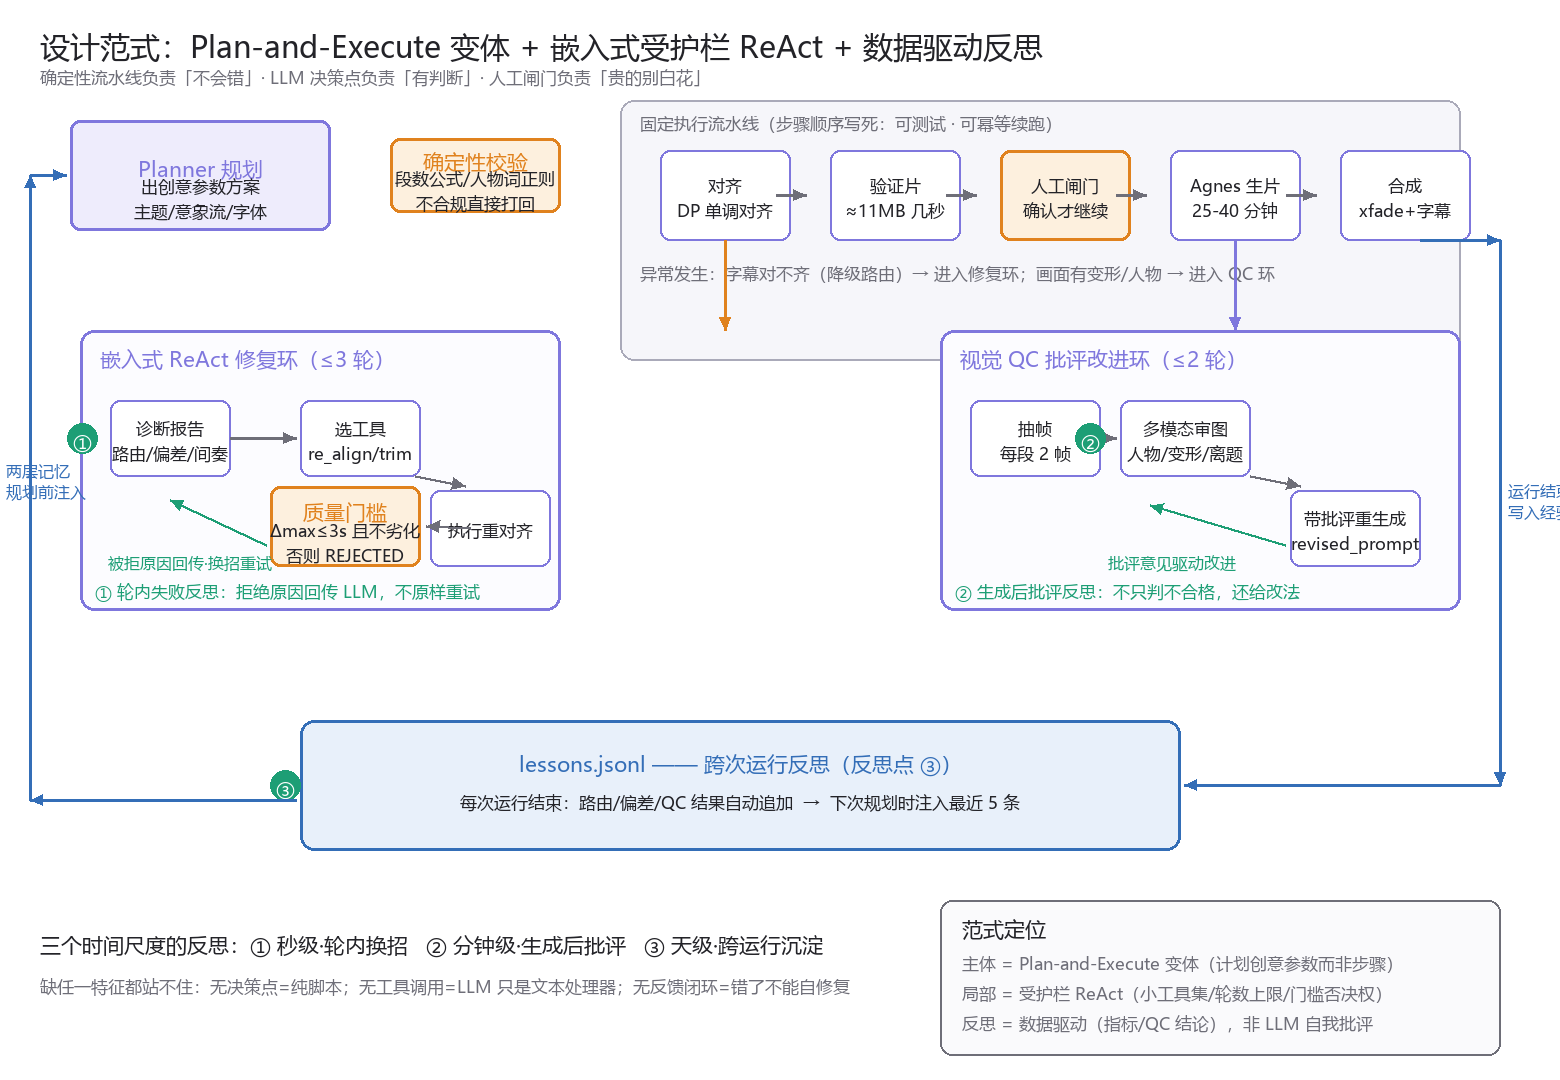
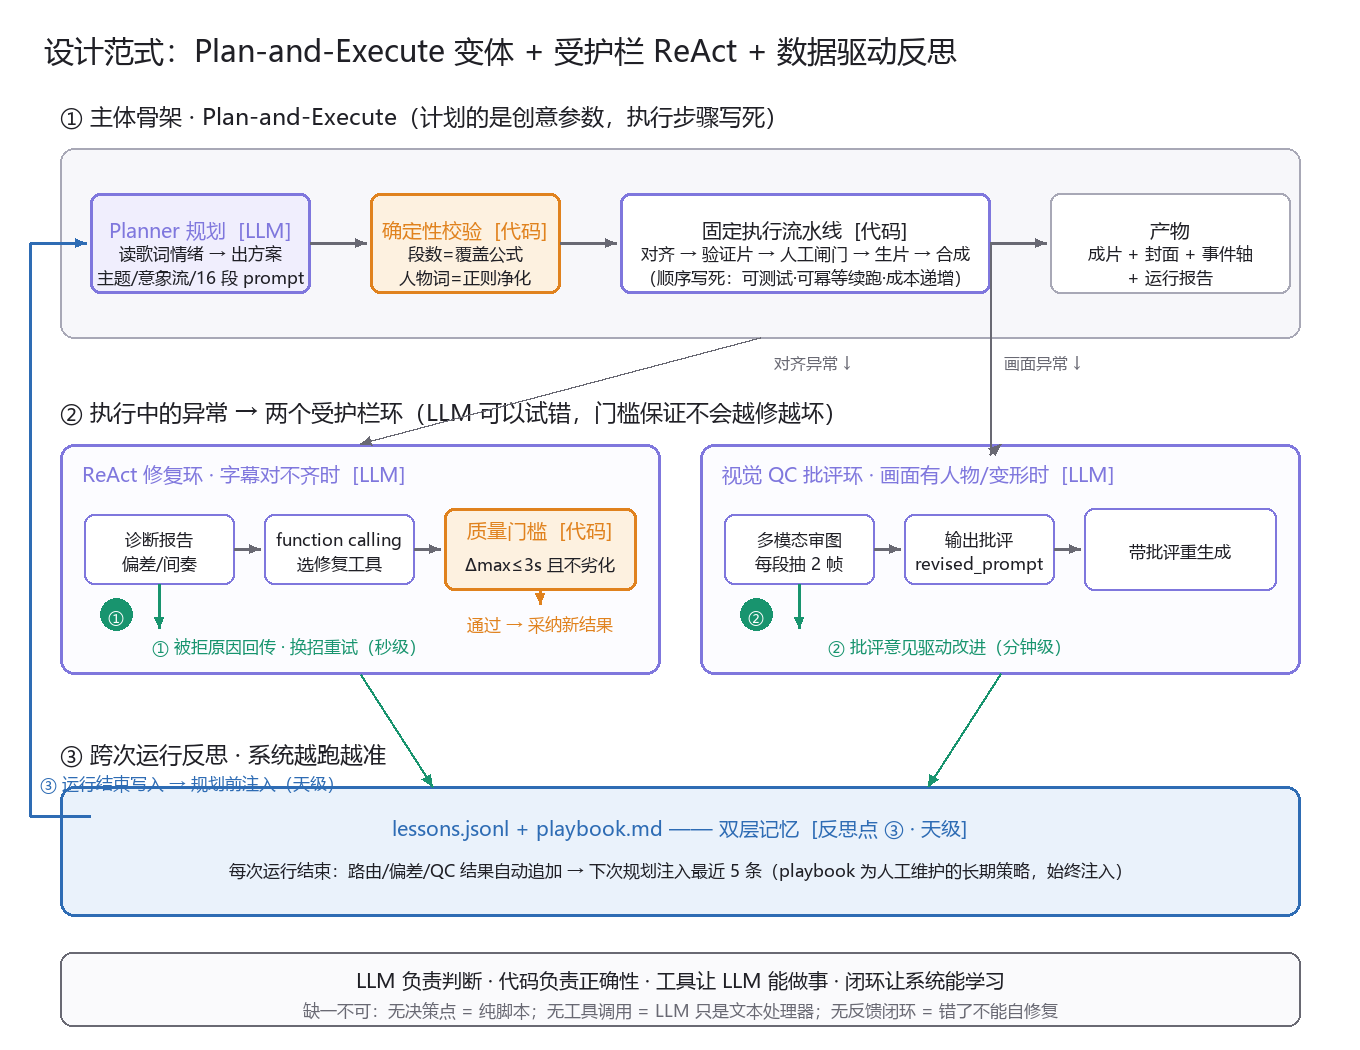
docs: 重绘设计范式图（三段式布局：骨架/护栏环/反思闭环）

Changed region(s): [[0.0, 0.0305, 1.0, 0.9752], [0.1235, 0.6095, 0.7721, 0.6705], [0.9265, 0.8229, 0.9574, 0.8838]]

diff --git a/tools/render_paradigm.py b/tools/render_paradigm.py
@@ -1,11 +1,15 @@
 #!/usr/bin/env python3
-"""渲染"设计范式图"：Plan-and-Execute 主体 + 嵌入式受护栏 ReAct + 三个反思点。
+"""渲染"设计范式图"（概念层，三段式布局）。
 
 用法: python tools/render_paradigm.py
-生成: docs/paradigm.png (白底，面试讲解用概念层图)
+生成: docs/paradigm.png
+
+设计原则：范式图只讲范式，不画流水线细节（细节由 architecture_main.png 承担）。
+三段自上而下：① 主体骨架 Plan-and-Execute → ② 执行中两个受护栏环 → ③ 跨次反思闭环。
 """
 from __future__ import annotations
 
+import math
 import os
 
 from PIL import Image, ImageDraw, ImageFont
@@ -13,172 +17,174 @@ from PIL import Image, ImageDraw, ImageFont
 FONT_PATH = "C:/Windows/Fonts/msyh.ttc"
 OUT = os.path.join(os.path.dirname(__file__), "..", "docs", "paradigm.png")
 
-W, H = 1560, 1080
+W, H = 1360, 1050
 BG = (255, 255, 255)
-INK = (35, 35, 40)
-GRAY = (110, 110, 120)
-PURPLE = (127, 119, 221)      # LLM 决策点
-PURPLE_BG = (238, 236, 252)
-BLUE = (52, 110, 183)         # 记忆/反思
-BLUE_BG = (232, 240, 250)
-ORANGE = (224, 130, 30)       # 人工/质量门槛
-ORANGE_BG = (253, 240, 222)
-GREEN = (29, 158, 117)        # 反思点标注
-GREEN_BG = (228, 245, 238)
-PIPE_BG = (246, 246, 250)
-PIPE_EDGE = (170, 170, 185)
+INK = (32, 32, 38)
+GRAY = (105, 105, 115)
+PURPLE = (127, 119, 221)
+PURPLE_BG = (240, 238, 253)
+ORANGE = (224, 130, 30)
+ORANGE_BG = (253, 241, 224)
+BLUE = (46, 108, 180)
+BLUE_BG = (234, 242, 251)
+GREEN = (24, 148, 110)
+CODE_BG = (247, 247, 250)
+CODE_EDGE = (168, 168, 182)
 
 
 def F(size):
     return ImageFont.truetype(FONT_PATH, size, index=0)
 
 
-f_title, f_node, f_sm, f_tag, f_num = F(30), F(21), F(17), F(16), F(19)
+f_title, f_h2, f_node, f_sm, f_tag = F(30), F(23), F(20), F(17), F(16)
 
 
 def box(d, xy, fill, edge, r=10, w=2):
     d.rounded_rectangle(xy, radius=r, fill=fill, outline=edge, width=w)
 
 
-def center_text(d, cx, cy, text, font, fill=INK, lh=None):
+def ctext(d, cx, cy, text, font, fill=INK):
     lines = text.split("\n")
-    lh = lh or (font.size + 8)
-    total = len(lines) * lh - 8
-    y = cy - total / 2
+    lh = font.size + 7
+    y = cy - (len(lines) * lh - 7) / 2
     for ln in lines:
         w = d.textlength(ln, font=font)
         d.text((cx - w / 2, y), ln, font=font, fill=fill)
         y += lh
 
 
-def arrow(d, p1, p2, color=GRAY, w=3, label=None, lcolor=None):
-    d.line([p1, p2], fill=color, width=w)
-    _head(d, p1, p2, color, w)
-    if label:
-        mx, my = (p1[0] + p2[0]) / 2, (p1[1] + p2[1]) / 2
-        tw = d.textlength(label, font=f_tag)
-        d.rounded_rectangle([mx - tw / 2 - 6, my - 13, mx + tw / 2 + 6, my + 13],
-                            radius=6, fill=(255, 255, 255), outline=lcolor or color, width=1)
-        d.text((mx - tw / 2, my - 11), label, font=f_tag, fill=lcolor or color)
-
-
-def _head(d, p1, p2, color, w):
-    import math
+def head(d, p1, p2, color, w=3):
     ang = math.atan2(p2[1] - p1[1], p2[0] - p1[0])
-    L = 11 + w
+    L = 12
     a1 = (p2[0] - L * math.cos(ang - 0.42), p2[1] - L * math.sin(ang - 0.42))
     a2 = (p2[0] - L * math.cos(ang + 0.42), p2[1] - L * math.sin(ang + 0.42))
     d.polygon([p2, a1, a2], fill=color)
 
 
-def badge(d, cx, cy, text, fill=GREEN, r=15):
+def arrow(d, pts, color=GRAY, w=3):
+    for i in range(len(pts) - 1):
+        d.line([pts[i], pts[i + 1]], fill=color, width=w)
+    head(d, pts[-2], pts[-1], color, w)
+
+
+def badge(d, cx, cy, text, fill=GREEN):
+    r = 16
     d.ellipse([cx - r, cy - r, cx + r, cy + r], fill=fill)
-    center_text(d, cx, cy, text, f_num, (255, 255, 255))
+    ctext(d, cx, cy, text, f_tag, (255, 255, 255))
 
 
 def main():
     img = Image.new("RGB", (W, H), BG)
     d = ImageDraw.Draw(img)
-
-    d.text((40, 26), "设计范式：Plan-and-Execute 变体 + 嵌入式受护栏 ReAct + 数据驱动反思",
+    d.text((44, 30), "设计范式：Plan-and-Execute 变体 + 受护栏 ReAct + 数据驱动反思",
            font=f_title, fill=INK)
-    d.text((40, 66), "确定性流水线负责「不会错」· LLM 决策点负责「有判断」· 人工闸门负责「贵的别白花」",
-           font=f_sm, fill=GRAY)
 
-    # ── 顶部：Plan-and-Execute 主体 ──
-    # Planner
-    box(d, [70, 120, 330, 230], PURPLE_BG, PURPLE, w=3)
-    center_text(d, 200, 165, "Planner 规划", f_node, PURPLE)
-    center_text(d, 200, 196, "出创意参数方案\n主题/意象流/字体", f_sm)
+    M = 60
+    CW = W - 2 * M
 
-    # 校验菱形（简化为小框）
-    box(d, [390, 138, 560, 212], ORANGE_BG, ORANGE, w=3)
-    center_text(d, 475, 158, "确定性校验", f_node, ORANGE)
-    center_text(d, 475, 188, "段数公式/人物词正则\n不合规直接打回", f_sm)
+    # ===== 第①段：主体骨架 =====
+    y0 = 100
+    d.text((M, y0), "① 主体骨架 · Plan-and-Execute（计划的是创意参数，执行步骤写死）",
+           font=f_h2, fill=INK)
+    sy = y0 + 48
+    SH = 190
 
-    # 执行流水线大框
-    box(d, [620, 100, 1460, 360], PIPE_BG, PIPE_EDGE, r=14, w=2)
-    d.text((640, 112), "固定执行流水线（步骤顺序写死：可测试 · 可幂等续跑）", font=f_sm, fill=GRAY)
-    stages = [("对齐\nDP 单调对齐", 660), ("验证片\n≈11MB 几秒", 830),
-              ("人工闸门\n确认才继续", 1000), ("Agnes 生片\n25-40 分钟", 1170),
-              ("合成\nxfade+字幕", 1340)]
-    for txt, x in stages:
-        is_gate = "人工" in txt
-        box(d, [x, 150, x + 130, 240], ORANGE_BG if is_gate else (255, 255, 255),
-            ORANGE if is_gate else PURPLE, w=3 if is_gate else 2)
-        center_text(d, x + 65, 195, txt, f_sm)
-    for x in (790, 960, 1130, 1300):
-        arrow(d, (x - 14, 195), (x + 16, 195))
-    d.text((640, 262), "异常发生：字幕对不齐（降级路由）→ 进入修复环；画面有变形/人物 → 进入 QC 环",
-           font=f_sm, fill=GRAY)
-    arrow(d, (725, 240), (725, 330), ORANGE, 3)
-    arrow(d, (1235, 240), (1235, 330), PURPLE, 3)
+    box(d, [M, sy, M + CW, sy + SH], CODE_BG, CODE_EDGE, r=14, w=2)
 
-    # ── 左下：ReAct 修复环 ──
-    box(d, [80, 330, 560, 610], (252, 252, 255), PURPLE, r=14, w=3)
-    d.text((100, 344), "嵌入式 ReAct 修复环（≤3 轮）", font=f_node, fill=PURPLE)
-    r_nodes = [("诊断报告\n路由/偏差/间奏", 110, 400), ("选工具\nre_align/trim", 300, 400),
-               ("执行重对齐", 430, 490)]
-    for txt, x, y in r_nodes:
-        box(d, [x, y, x + 120, y + 76], (255, 255, 255), PURPLE, w=2)
-        center_text(d, x + 60, y + 38, txt, f_sm)
-    arrow(d, (230, 438), (296, 438))
-    arrow(d, (415, 476), (465, 486))
-    # 质量门槛
-    box(d, [270, 486, 420, 566], ORANGE_BG, ORANGE, w=3)
-    center_text(d, 345, 508, "质量门槛", f_node, ORANGE)
-    center_text(d, 345, 540, "Δmax≤3s 且不劣化\n否则 REJECTED", f_sm)
-    arrow(d, (470, 528), (426, 526))
-    # 被拒回传（反思①）
-    arrow(d, (266, 545), (170, 500), GREEN, 3)
-    d.text((108, 552), "被拒原因回传·换招重试", font=f_tag, fill=GREEN)
-    badge(d, 82, 438, "①")
-    d.text((95, 580), "① 轮内失败反思：拒绝原因回传 LLM，不原样重试", font=f_sm, fill=GREEN)
+    box(d, [M + 30, sy + 45, M + 250, sy + 145], PURPLE_BG, PURPLE, w=3)
+    ctext(d, M + 140, sy + 78, "Planner 规划  [LLM]", f_node, PURPLE)
+    ctext(d, M + 140, sy + 115, "读歌词情绪 → 出方案\n主题/意象流/16 段 prompt", f_sm)
+    box(d, [M + 310, sy + 45, M + 500, sy + 145], ORANGE_BG, ORANGE, w=3)
+    ctext(d, M + 405, sy + 78, "确定性校验  [代码]", f_node, ORANGE)
+    ctext(d, M + 405, sy + 115, "段数=覆盖公式\n人物词=正则净化", f_sm)
+    box(d, [M + 560, sy + 45, M + 930, sy + 145], (255, 255, 255), PURPLE, w=3)
+    ctext(d, M + 745, sy + 78, "固定执行流水线  [代码]", f_node)
+    ctext(d, M + 745, sy + 115, "对齐 → 验证片 → 人工闸门 → 生片 → 合成\n（顺序写死：可测试·可幂等续跑·成本递增）", f_sm)
+    box(d, [M + 990, sy + 45, M + 1230, sy + 145], (255, 255, 255), CODE_EDGE, w=2)
+    ctext(d, M + 1110, sy + 78, "产物", f_node)
+    ctext(d, M + 1110, sy + 115, "成片 + 封面 + 事件轴\n+ 运行报告", f_sm)
 
-    # ── 右下：QC 批评改进环 ──
-    box(d, [940, 330, 1460, 610], (252, 252, 255), PURPLE, r=14, w=3)
-    d.text((960, 344), "视觉 QC 批评改进环（≤2 轮）", font=f_node, fill=PURPLE)
-    q_nodes = [("抽帧\n每段 2 帧", 970, 400), ("多模态审图\n人物/变形/离题", 1120, 400),
-               ("带批评重生成\nrevised_prompt", 1290, 490)]
-    for txt, x, y in q_nodes:
-        box(d, [x, y, x + 130, y + 76], (255, 255, 255), PURPLE, w=2)
-        center_text(d, x + 65, y + 38, txt, f_sm)
-    arrow(d, (1100, 438), (1116, 438))
-    arrow(d, (1250, 476), (1300, 486))
-    arrow(d, (1285, 545), (1150, 505), GREEN, 3)
-    d.text((1108, 552), "批评意见驱动改进", font=f_tag, fill=GREEN)
-    badge(d, 1090, 438, "②")
-    d.text((955, 580), "② 生成后批评反思：不只判不合格，还给改法", font=f_sm, fill=GREEN)
+    arrow(d, [(M + 250, sy + 95), (M + 306, sy + 95)])
+    arrow(d, [(M + 500, sy + 95), (M + 556, sy + 95)])
+    arrow(d, [(M + 930, sy + 95), (M + 986, sy + 95)])
 
-    # ── 底部：lessons 跨次反思 ──
-    box(d, [300, 720, 1180, 850], BLUE_BG, BLUE, r=14, w=3)
-    center_text(d, 740, 760, "lessons.jsonl —— 跨次运行反思（反思点 ③）", f_node, BLUE)
-    center_text(d, 740, 800, "每次运行结束：路由/偏差/QC 结果自动追加  →  下次规划时注入最近 5 条",
-                f_sm)
-    badge(d, 285, 785, "③")
-    # 回边：运行结束 -> lessons（走画布最右外侧，不穿 QC 环）
-    arrow(d, (1420, 240), (1500, 240), BLUE, 3)
-    arrow(d, (1500, 240), (1500, 785), BLUE, 3)
-    arrow(d, (1500, 785), (1184, 785), BLUE, 3)
-    d.text((1508, 480), "运行结束\n写入经验", font=f_tag, fill=BLUE)
-    # 注入边：lessons -> Planner（走画布最左外侧，不穿修复环）
-    arrow(d, (296, 800), (30, 800), BLUE, 3)
-    arrow(d, (30, 800), (30, 175), BLUE, 3)
-    arrow(d, (30, 175), (66, 175), BLUE, 3)
-    d.text((6, 460), "两层记忆\n规划前注入", font=f_tag, fill=BLUE)
+    # ===== 第②段：两个受护栏环 =====
+    y1 = sy + SH + 58
+    d.text((M, y1), "② 执行中的异常 → 两个受护栏环（LLM 可以试错，门槛保证不会越修越坏）",
+           font=f_h2, fill=INK)
+    ey = y1 + 48
+    EH = 230
+    half = (CW - 40) // 2
 
-    # ── 右下角：范式定位标注 ──
-    box(d, [940, 900, 1500, 1055], (250, 250, 252), GRAY, r=12, w=2)
-    d.text((962, 914), "范式定位", font=f_node, fill=INK)
-    d.text((962, 952), "主体 = Plan-and-Execute 变体（计划创意参数而非步骤）", font=f_sm, fill=GRAY)
-    d.text((962, 982), "局部 = 受护栏 ReAct（小工具集/轮数上限/门槛否决权）", font=f_sm, fill=GRAY)
-    d.text((962, 1012), "反思 = 数据驱动（指标/QC 结论），非 LLM 自我批评", font=f_sm, fill=GRAY)
+    # 左：ReAct 修复环
+    lx = M
+    box(d, [lx, ey, lx + half, ey + EH], (252, 252, 255), PURPLE, r=14, w=3)
+    d.text((lx + 22, ey + 16), "ReAct 修复环 · 字幕对不齐时  [LLM]", font=f_node, fill=PURPLE)
+    ny = ey + 70
+    box(d, [lx + 24, ny, lx + 174, ny + 70], (255, 255, 255), PURPLE, w=2)
+    ctext(d, lx + 99, ny + 35, "诊断报告\n偏差/间奏", f_sm)
+    box(d, [lx + 204, ny, lx + 354, ny + 70], (255, 255, 255), PURPLE, w=2)
+    ctext(d, lx + 279, ny + 35, "function calling\n选修复工具", f_sm)
+    arrow(d, [(lx + 174, ny + 35), (lx + 200, ny + 35)])
+    mt_w = half - 24 - 384 - 24
+    box(d, [lx + 384, ny - 6, lx + 384 + mt_w + 24, ny + 76], ORANGE_BG, ORANGE, w=3)
+    ctext(d, lx + 384 + mt_w / 2 + 12, ny + 12, "质量门槛  [代码]", f_node, ORANGE)
+    ctext(d, lx + 384 + mt_w / 2 + 12, ny + 48, "Δmax≤3s 且不劣化", f_sm)
+    arrow(d, [(lx + 354, ny + 35), (lx + 380, ny + 35)])
+    arrow(d, [(lx + 99, ny + 70), (lx + 99, ey + EH - 46)], GREEN)
+    ctext(d, lx + 99 + 130, ey + EH - 30, "① 被拒原因回传 · 换招重试（秒级）", f_sm, GREEN)
+    arrow(d, [(lx + 384 + mt_w / 2 + 12, ny + 76),
+              (lx + 384 + mt_w / 2 + 12, ey + EH - 70)], ORANGE)
+    ctext(d, lx + 384 + mt_w / 2 + 12, ey + EH - 52, "通过 → 采纳新结果", f_sm, ORANGE)
+    badge(d, lx + 56, ny + 100, "①")
 
-    # 底部说明
-    d.text((40, 930), "三个时间尺度的反思：① 秒级·轮内换招   ② 分钟级·生成后批评   ③ 天级·跨运行沉淀",
-           font=f_node, fill=INK)
-    d.text((40, 975), "缺任一特征都站不住：无决策点=纯脚本；无工具调用=LLM 只是文本处理器；无反馈闭环=错了不能自修复",
-           font=f_sm, fill=GRAY)
+    # 右：QC 批评环
+    rx = M + half + 40
+    box(d, [rx, ey, rx + half, ey + EH], (252, 252, 255), PURPLE, r=14, w=3)
+    d.text((rx + 22, ey + 16), "视觉 QC 批评环 · 画面有人物/变形时  [LLM]", font=f_node, fill=PURPLE)
+    box(d, [rx + 24, ny, rx + 174, ny + 70], (255, 255, 255), PURPLE, w=2)
+    ctext(d, rx + 99, ny + 35, "多模态审图\n每段抽 2 帧", f_sm)
+    box(d, [rx + 204, ny, rx + 354, ny + 70], (255, 255, 255), PURPLE, w=2)
+    ctext(d, rx + 279, ny + 35, "输出批评\nrevised_prompt", f_sm)
+    arrow(d, [(rx + 174, ny + 35), (rx + 200, ny + 35)])
+    box(d, [rx + 384, ny - 6, rx + 384 + mt_w + 24, ny + 76], (255, 255, 255), PURPLE, w=2)
+    ctext(d, rx + 384 + mt_w / 2 + 12, ny + 35, "带批评重生成", f_sm)
+    arrow(d, [(rx + 354, ny + 35), (rx + 380, ny + 35)])
+    arrow(d, [(rx + 99, ny + 70), (rx + 99, ey + EH - 46)], GREEN)
+    ctext(d, rx + 99 + 150, ey + EH - 30, "② 批评意见驱动改进（分钟级）", f_sm, GREEN)
+    badge(d, rx + 56, ny + 100, "②")
+
+    # 承接虚线
+    arrow(d, [(M + 700, sy + SH), (lx + half / 2, ey)], GRAY, 2)
+    arrow(d, [(M + 930, sy + 95), (M + 930, ey + 10), (rx + half / 2, ey)], GRAY, 2)
+    d.text((M + 714, sy + SH + 14), "对齐异常 ↓", font=f_tag, fill=GRAY)
+    d.text((M + 944, sy + SH + 14), "画面异常 ↓", font=f_tag, fill=GRAY)
+
+    # ===== 第③段：跨次反思 =====
+    y2 = ey + EH + 64
+    d.text((M, y2), "③ 跨次运行反思 · 系统越跑越准", font=f_h2, fill=INK)
+    ty = y2 + 48
+    TH = 130
+    box(d, [M, ty, M + CW, ty + TH], BLUE_BG, BLUE, r=14, w=3)
+    ctext(d, M + CW / 2, ty + 38, "lessons.jsonl + playbook.md —— 双层记忆  [反思点 ③ · 天级]", f_node, BLUE)
+    ctext(d, M + CW / 2, ty + 82,
+          "每次运行结束：路由/偏差/QC 结果自动追加 → 下次规划注入最近 5 条（playbook 为人工维护的长期策略，始终注入）",
+          f_sm)
+
+    # 闭环：③ 左侧上回 Planner
+    arrow(d, [(M + 30, ty + 30), (30, ty + 30), (30, sy + 95), (M + 26, sy + 95)], BLUE, 3)
+    d.text((40, ty - 14), "③ 运行结束写入 → 规划前注入（天级）", font=f_sm, fill=BLUE)
+    # 两环经验回流
+    arrow(d, [(lx + half / 2, ey + EH), (M + int(CW * 0.3), ty)], GREEN, 2)
+    arrow(d, [(rx + half / 2, ey + EH), (M + int(CW * 0.7), ty)], GREEN, 2)
+
+    # ===== 底部 =====
+    by = ty + TH + 36
+    box(d, [M, by, M + CW, by + 74], (250, 250, 252), GRAY, r=12, w=2)
+    ctext(d, M + CW / 2, by + 24,
+          "LLM 负责判断 · 代码负责正确性 · 工具让 LLM 能做事 · 闭环让系统能学习", f_node)
+    ctext(d, M + CW / 2, by + 56,
+          "缺一不可：无决策点 = 纯脚本；无工具调用 = LLM 只是文本处理器；无反馈闭环 = 错了不能自修复", f_sm, GRAY)
 
     os.makedirs(os.path.dirname(OUT), exist_ok=True)
     img.save(OUT)
